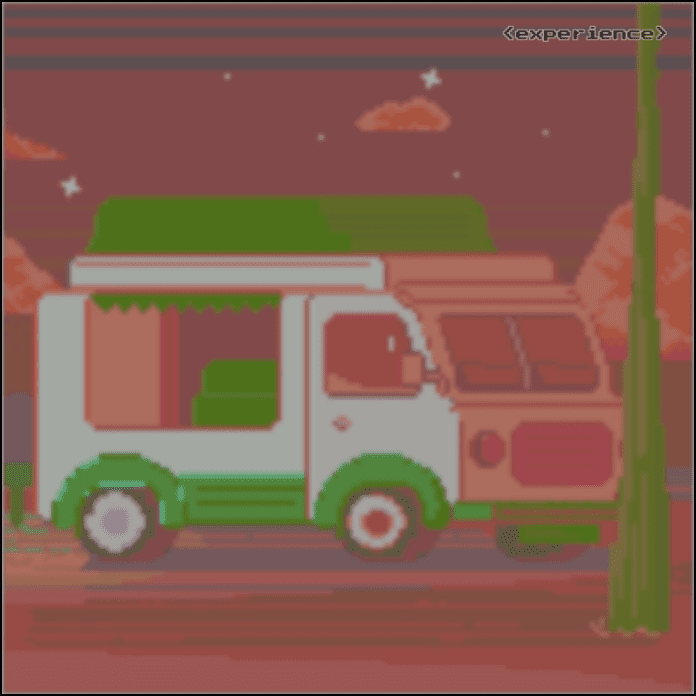
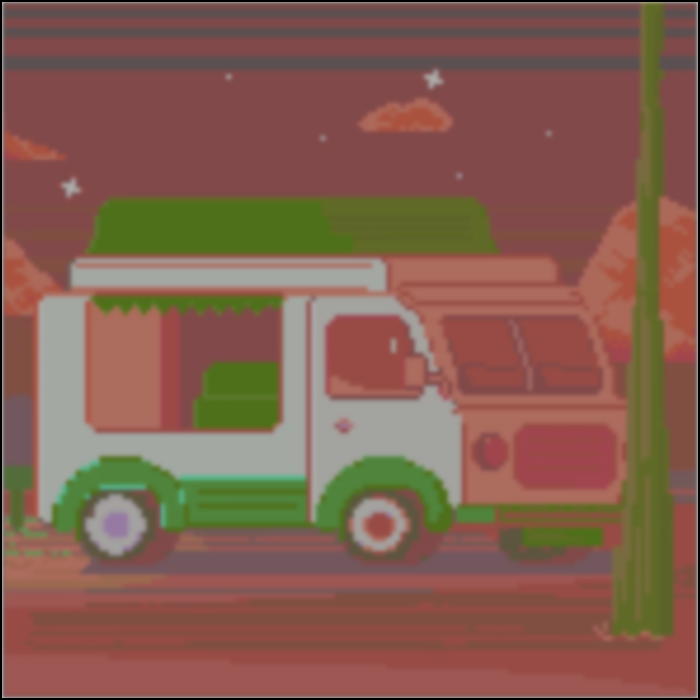
исправленны замечания

diff --git a/index.html b/index.html
@@ -57,6 +57,7 @@
       основами и настроиться на учёбу. И, возможно, подумать,
       как новые знания могут повлиять на ваше будущее.</p>
       <p>Место для ваших воспоминаний о начале обучения.</p>
+
     </div>
     <div class="section__like">
       <button class="card__icon-button" type="button" aria-label="Like">
@@ -92,11 +93,13 @@
       <img class="image section__image" src="./images/blank-sheet.png" alt="Я — чистый лист">
       <figcaption class="image-watermark"> &lt;/HTML&gt;</figcaption>
     </figure>
-    <div class="section__content"><p>На первых этапах мы работали со страхами и сомнениями,
-      которые часто испытывают новички. Один из них — страх перед чистым листом. Это, конечно же,
-      намного сложнее, чем боязнь куска бумаги. Часто за этим ощущением скрываются более глубокие
-      вопросы: с чего начать? а вдруг будет слишком сложно? что, если я не справлюсь?</p>
+    <div class="section__content">
+      <p>На первых этапах мы работали со страхами и сомнениями, которые часто испытывают новички.
+        Один из них — страх перед чистым листом. Это, конечно же, намного сложнее, чем боязнь куска бумаги.
+        Часто за этим ощущением скрываются более глубокие вопросы: с чего начать? <br>а вдруг будет слишком сложно?
+        что, если я не справлюсь?</p>
       <p>Место для ваших воспоминаний о начале первого спринта.</p>
+
     </div>
     <div class="section__like">
       <button class="card__icon-button" type="button" aria-label="Like">
@@ -132,10 +135,12 @@
       <img class="image section__image" src="./images/training.png" alt="А если не получится?">
       <figcaption class="image-watermark">&#60;CSS&#62;</figcaption>
     </figure>
-    <div class="section__content"><p>Первый проект — позади! Но это всё ещё самое начало пути.
+    <div class="section__content">
+      <p>Первый проект — позади! Но это всё ещё самое начало пути.
       Радость могла быстро померкнуть и смениться ожиданием провала. Или вы, наоборот, могли вдохновиться
       успехами и поверить в себя.</p>
       <p>Место для ваших воспоминаний об окончании первого спринта.</p>
+
     </div>
     <div class="section__like">
       <button class="card__icon-button" type="button" aria-label="Like">
@@ -176,6 +181,7 @@
       недостижим. А, может, вы вовсе и не подвержены перфекционизму и вместо того, чтобы сделать идеально,
       старались просто сделать.</p>
       <p>Место для ваших воспоминаний о начале второго спринта.</p>
+
     </div>
     <div class="section__like">
       <button class="card__icon-button" type="button" aria-label="Like">
@@ -216,6 +222,7 @@
       просто близкие люди, которым можно пожаловаться, если очередной макет просто так не поддавался.
       Осваивать что-то новое легче, когда рядом есть единомышленники, не правда ли?</p>
       <p>Место для ваших воспоминаний об окончании второго спринта.</p>
+
     </div>
     <div class="section__like">
       <button class="card__icon-button" type="button" aria-label="Like">
@@ -255,6 +262,7 @@
       В какой-то момент вам могло показаться, что решения просто иссякли. Значит,
       пришло время посмотреть на задачу под другим углом.</p>
       <p>Место для ваших воспоминаний о начале третьего спринта.</p>
+
     </div>
     <div class="section__like">
       <button class="card__icon-button" type="button" aria-label="Like">
@@ -295,6 +303,7 @@
       разобраться, и жизнь не забыть пожить. В такие моменты очень нужна концентрация. Вспомните,
       откуда вы её черпали.</p>
       <p>Место для ваших воспоминаний об окончании третьего спринта.</p>
+
     </div>
     <div class="section__like">
       <button class="card__icon-button" type="button" aria-label="Like">
@@ -326,13 +335,17 @@
   </section>
   <section class="section now">
     <h2 class="section__title">«Сейчас я здесь»</h2>
-
+    <figure class="image-container">
     <img class="image section__image" src="./images/now.png" alt="Сейчас я здесь">
-    <div class="section__content"><p>Сейчас вы уже очень много знаете о вёрстке. Но это только начало.
+    <figcaption class="image-watermark"> &#60;experience&#62;</figcaption>
+    </figure>
+    <div class="section__content">
+      <p>Сейчас вы уже очень много знаете о вёрстке. Но это только начало.<br>
       Во-первых, впереди ещё много материала про «красотищу». Во-вторых, с окончанием курса учёба не
       заканчивается. Вёрстка — это целый мир. И этот мир постоянно меняется. Познать его полностью не
       получится, но это тот случай, когда важен сам процесс познания. Ведь часто путь — и есть результат.</p>
       <p>Место, чтобы остановиться, подумать и написать, что вы чувствуете в этой точке пути.</p>
+
     </div>
     <div class="section__like">
       <button class="card__icon-button" type="button" aria-label="Like">

diff --git a/styles/style.css b/styles/style.css
@@ -33,7 +33,7 @@
 }
 
 .header {
-  margin: 108px 0 98px 0;
+  margin: 100px 0;
   display: flex;
   flex-direction: column;
   justify-content: end;
@@ -51,11 +51,6 @@
   padding-top: 20px;
 }
 
-.section {
-  margin-bottom: 48px;
-  border: 2px solid var(--accent-color);
-  background-color: var(--page-background-color);
-}
 
 .theme-menu__list {
   font-size: 14px;
@@ -99,7 +94,6 @@
   position: absolute;
   top: 0;
   left: -12px;
-  animation: active-button 0.5s infinite ease-in-out alternate;
 }
 
 .theme-menu__button:after {
@@ -116,41 +110,62 @@
 
 .section__title {
   line-height: 2rem;
-  font-variation-settings: 'wght' var(--regular-text);
-  padding-inline-start: clamp(0.75rem, 0.929rem + -0.476vw, 0.5rem);
-  border: 2px solid var(--accent-color);
+  font-variation-settings: 'wght' var(--bold-text);
+  padding: 0 10px;
+  border-bottom: 2px solid var(--accent-color);
 }
 
-.image-container {
-  position: relative;
-  color: var(--page-background-color);
-  overflow: hidden;
+.section {
+  margin-bottom: 51px;
+  background-color: var(--page-background-color);
+  border: solid 2px var(--accent-color);
 }
 
 .section__content {
-  letter-spacing: 0.6px;
+  padding: 25px 25px 22px;
   line-height: 21px;
-  border-block-start: 2px solid var(--accent-color);
+}
+.section__content p:not(:last-child){
+  margin-bottom: 27px;
+}
+.image-container {
+  position: relative;
+  display: flex;
+  color: var(--page-background-color);
+  border-bottom: 2px solid var(--accent-color);
 }
 
 .section__image {
-  width: 100%;
-  object-fit: cover;
+  inline-size: 100%;
 }
 
+.section.now .section__content{
+  padding-top: 21px;
+}
 
 .image-watermark {
   position: absolute;
-  top: 20px;
-  right: 20px;
-  font-family: var(--accent-font);
-  font-size: 14px;
-  font-weight: var(--bold-text);
+  z-index: 1;
   opacity: 50%;
+  font-family: var(--accent-font);
+  color: var(--accent-color);
   background-color: transparent;
-  z-index: 999;
+  font-size: 14px;
+  line-height: normal;
+  text-shadow: 1px 1px 0 var(--page-background-color);
+  inset-inline-end: 24px;
+  inset-block-start: 24px;
+  mix-blend-mode: hard-light;
 }
 
+@supports ((text-stroke: 1px #000000) or (-webkit-text-stroke: 1px #000000)) {
+
+  .image-watermark {
+    -webkit-text-stroke: 1px var(--page-background-color);
+    text-stroke: 1px var(--page-background-color);
+    text-shadow: none;
+  }
+}
 .css-text {
   top: 27px;
   right: 8px;
@@ -176,9 +191,8 @@
 .section__like {
   display: flex;
   justify-content: end;
-  margin: 0 22px 25px 0;
+  padding: 2px 25px 25px;
   background-color: var(--page-background-image);
-  /*color: var(--accent-color)*/
 }
 
 .card__icon-button {
@@ -235,7 +249,7 @@
 }
 
 .card__like-button:focus {
-  box-shadow: 2px 2px 2px var(--box-shadow);
+  box-shadow: 2px 2px 0 var(--box-shadow);
 }
 
 .card__like-button::before {
@@ -305,7 +319,7 @@
 .card__like-button:focus,
 .open-modal-button:focus,
 .close-modal-button:focus {
-  box-shadow: 2px 2px 2px var(--box-shadow);
+  box-shadow: 2px 2px 0 var(--box-shadow);
 }
 
 .open-modal-button::before {
@@ -425,8 +439,16 @@
   }
 
   .section__title {
-    line-height: 1.2em;
-    padding-top: 7px;
+    line-height: 21.78px;
+    padding-top: 8px;
+  }
+
+  .section__content{
+    padding-top: 27px;
+  }
+
+  .section.now .section__content {
+    padding-top: 26px;
   }
 
   .icon-floppy {
@@ -444,5 +466,9 @@
   .theme-menu__list {
     padding-left: 2px;
   }
-}
 
+  .image-watermark{
+    inset-inline-end: 11px;
+    inset-block-start: 25px;
+  }
+}

diff --git a/styles/animations.css b/styles/animations.css
@@ -114,6 +114,17 @@
   }
 }
 
+.theme-menu__button[disabled]::before{
+  animation: active-button 0.5s infinite ease-in-out alternate;
+}
 
+@keyframes active-button{
+  0%{
+    transform: translate(0px);
+  }
+  100%{
+    transform: translate(-4px);
+  }
+}
 
 

diff --git a/styles/globals.css b/styles/globals.css
@@ -60,12 +60,10 @@ ol {
 h2 {
   font-size: 18px;
   font-weight: 700;
-  letter-spacing: 0.2px;
-  line-height: 21.78px;
 }
 
 p {
-  margin: 22px 25px 26px;
+  margin: 0;
 }
 
 h3 {
